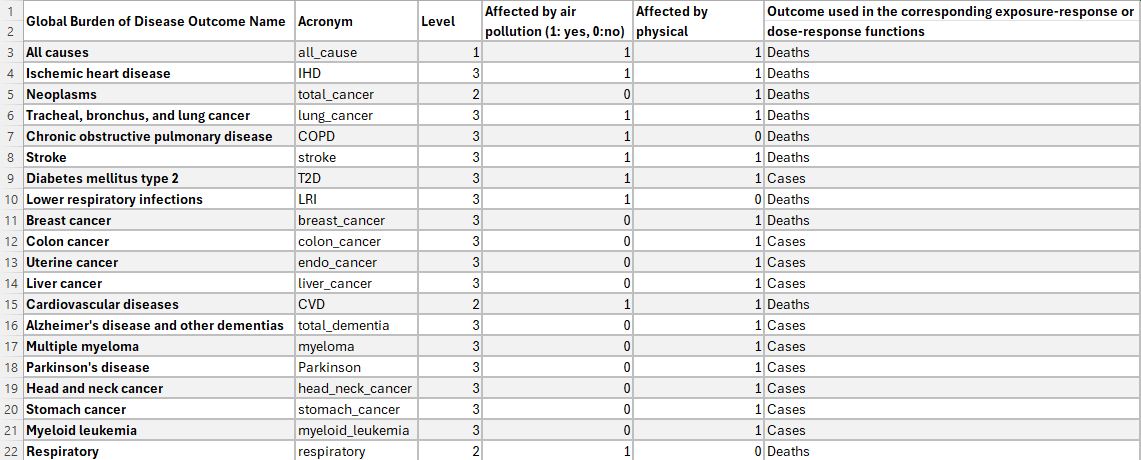
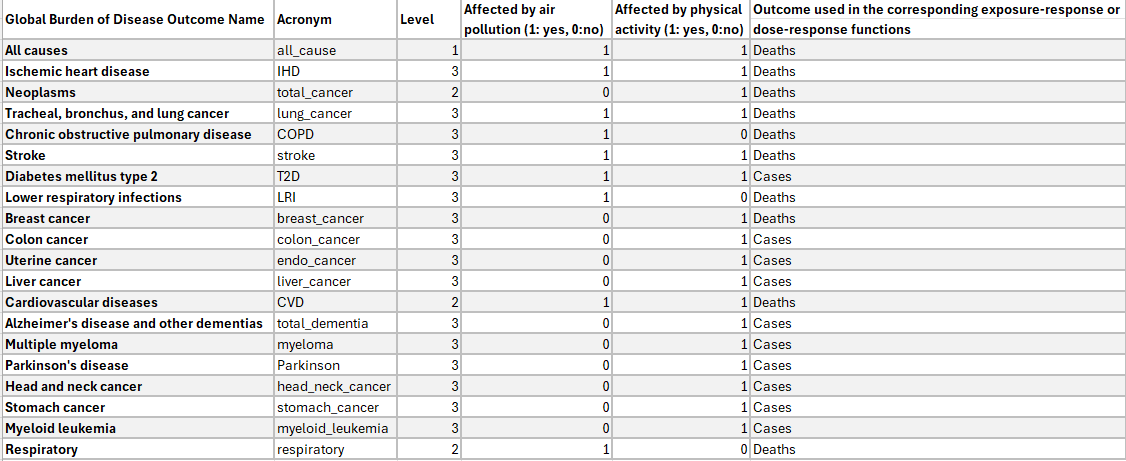
Update disease interaction table for the readme too. Rel 5df4adc8d50b7d7ad6adacdfa916f4aa294260c7

diff --git a/README.md b/README.md
@@ -98,7 +98,8 @@ This section covers file inputs (specific to a city) required to run the model.
 
 In order to setup the model, we need a fixed list of tables/datasets, which do not change across cities/ applied similarly to all cities and are hence referred to as “Global”, such as:
 
--   [**Health outcome interaction table**](https://raw.githubusercontent.com/ITHIM/ITHIM-R/bogota/inst/extdata/global/dose_response/disease_outcomes_lookup.csv). A table with a list of health outcomes related to a specific pathway such as `Air Pollution` and `Physical Activity` and also the interaction between them.
+-   **Health outcome interaction table**. A table with a list of health outcomes related to a specific pathway such as `Air Pollution` and `Physical Activity` and also the interaction between them.
+![](man/figures/disease_interaction_table.png){width="100%"}
 
 -   [**Air Pollution Exposure Response Functions (ERFs)**](https://github.com/ITHIM/ITHIM-R/tree/bogota/inst/extdata/global/dose_response/drap/extdata)**.** These give the exposure-response relationships between air pollution (PM2.5) and its impact on health for different health outcomes. We have collected/cleaned datasets from published studies for this.
 
